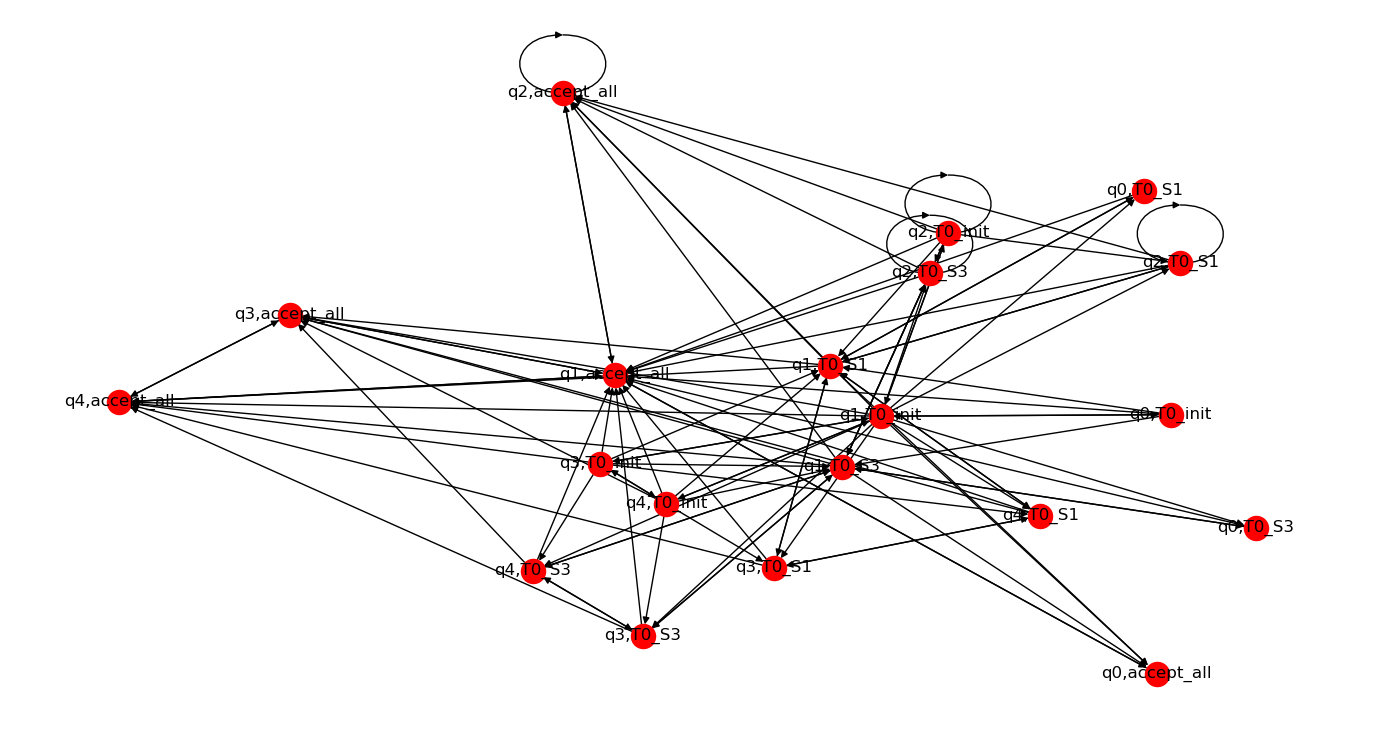
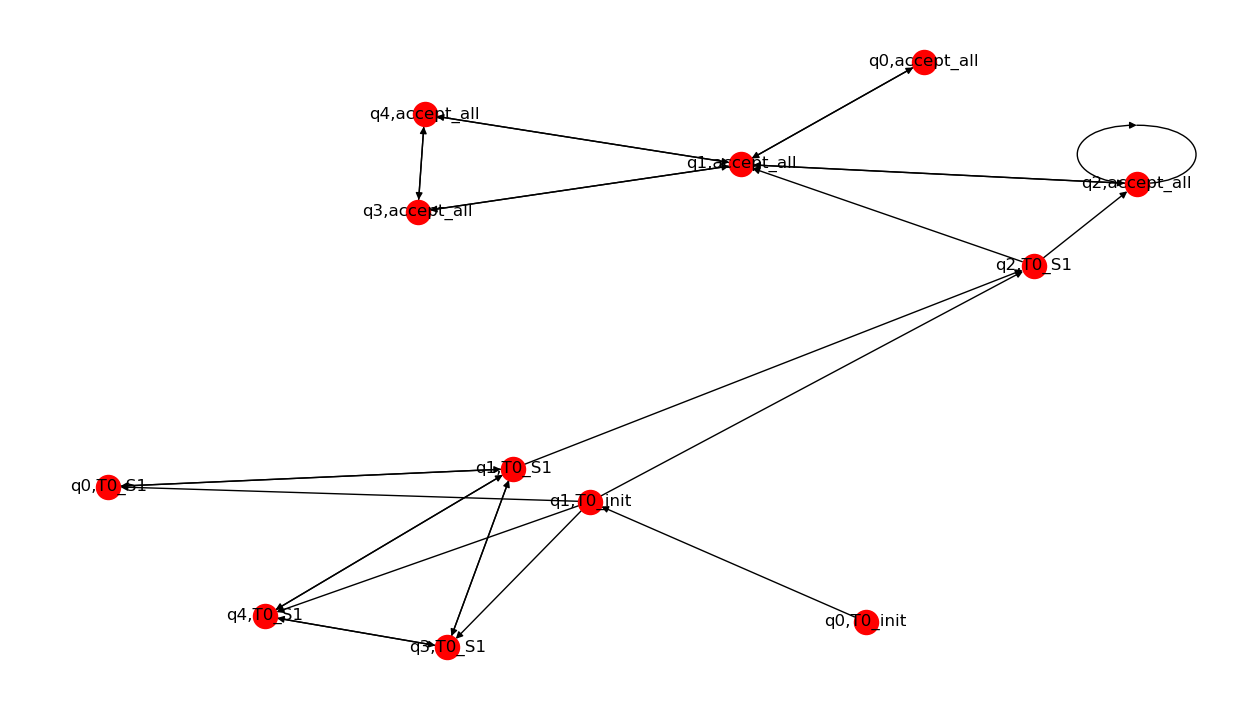
fixed solution to part 1

diff --git a/lomap/HW7/HW7-q1.py b/lomap/HW7/HW7-q1.py
@@ -34,7 +34,7 @@ def find_accepting_path(product_system, fsa_accepting_states):
 
     return None  # No accepting path found
 
-def recursive_edge_adder(edgesToCheck, transition_system, ts1, ts2, known_edges):
+def recursive_edge_adder(edgesToCheck, transition_system, ts1, fsa, known_edges):
     if len(edgesToCheck) > 0:
         IsA = edgesToCheck[0][2]
         IsB = edgesToCheck[0][3]
@@ -43,29 +43,26 @@ def recursive_edge_adder(edgesToCheck, transition_system, ts1, ts2, known_edges)
         #transition_system.visualize()
         #remove the first edge and put it into known edges
         known_edges.append(edgesToCheck.pop(0))
-        #add edges to the thing
+        #print(known_edges)
+        #iterate over all neighbors of the ts
         for q in list(ts1.g.adj[str(IsA)]):
-            for s in list(ts2.g.adj[str(IsB)]):
-                #print(q + "," + s)
-                #check this edge against every other edge we have been to
+            #iterate over all the next states of the FSA
+            for s in list(fsa.next_state(str(IsB), hw_6_ts.g.nodes[str(IsA)]['prop'])):
+                #print(str(q) + ' , ' + str(s))
+                #check against edges we have been to
                 have_been_to = False
                 for i in range(len(known_edges)):
                     if known_edges[i][0] == IsA and known_edges[i][1] == IsB and known_edges[i][2] == q and known_edges[i][3] == s:
                         have_been_to = True
-
-                #check against every edge that we need to check
-                # for i in range(len(edgesToCheck)):
-                #     if edgesToCheck[i][0] == IsA and edgesToCheck[i][1] == IsB and edgesToCheck[i][2] == q and edgesToCheck[i][3]:
-                #         have_been_to = True
-
-                
+                #add to the list of edges to check
+                print(have_been_to)
                 if not have_been_to:
+                    print("hello world")
                     edgesToCheck.append([IsA, IsB, q,s])
-        
-        #show the edge list
-        #print(edgesToCheck)
+    
+        print(len(edgesToCheck))
+        transition_system = recursive_edge_adder(edgesToCheck, transition_system, ts1, fsa, known_edges)
 
-        transition_system = recursive_edge_adder(edgesToCheck, transition_system, ts1, ts2, known_edges)
 
 if __name__ == '__main__':
     #initialize the transition system
@@ -101,15 +98,19 @@ if __name__ == '__main__':
             #print(str(q) + "," + str(s))
             product_system.g.add_node(str(q) + "," + str(s), prop="red")
 
-    #intialize all the edges
+    #print(hw_6_ts.g.nodes[str(Is1)]['prop'])
+    #print(str(Is1))
+    #product_system.visualize()
+
+    #initalize edges to check
     edgesToCheck = []
-    for q in list(hw_6_ts.g.adj[str(Is1)]): #this should be all reachable states from the inital
-        for s in list(fsa.g.adj[str(Is2)]): #this should be all reachable states from the inital state in the FSA
-            #print(q + "," + s)
-            edgesToCheck.append([Is1, Is2, q,s])
+    for q in list(hw_6_ts.g.adj[str(Is1)]): #things adjacent to init of ts system
+        for s in list(fsa.next_state(str(Is2), hw_6_ts.g.nodes[str(Is1)]['prop'])): #things adjacent in the FSA based off the prop in the current ts state
+            #print(str(q) + " " + str(s))
+            edgesToCheck.append([Is1, Is2, q, s])
     #print(edgesToCheck)
 
-    #recusively add edges
+    #run the recursive thing
     recursive_edge_adder(edgesToCheck, product_system, hw_6_ts, fsa, [])
 
     #remove unreachable nodes
@@ -122,16 +123,8 @@ if __name__ == '__main__':
             rm_nodes.append(str(node))
     #remove the nodes
     product_system.g.remove_nodes_from(rm_nodes)
-
-    #product system appart of question 1
+    
+    #solution to part 1
     product_system.visualize()
-
-    #list of accepting states
-    fsa_accepting_states = [state for state in product_system.g.nodes if "accept_all" in state]
-    print(fsa_accepting_states)
-
-    #accepting_path = find_accepting_path(product_system, fsa_accepting_states)
-
-    #print(accepting_path)
 
 

diff --git a/lomap/HW7/FSA_test.py b/lomap/HW7/FSA_test.py
@@ -20,10 +20,10 @@ B.init # initial state
 B.final # final state
 
 # visualize
-#F.visualize()
+F.visualize()
 #B.visualize()
 
 # # get next state(s) for a given input
-print(F.next_state('T0_init','a')) # state is 'T0_init', input is 'a'
+print(F.next_state('T0_S1','b')) # state is 'T0_init', input is 'a'
 print(F.next_state('T0_init','ab')) 
 print(F.next_state('T0_init','a && b')) # this is equivalent to the line above
